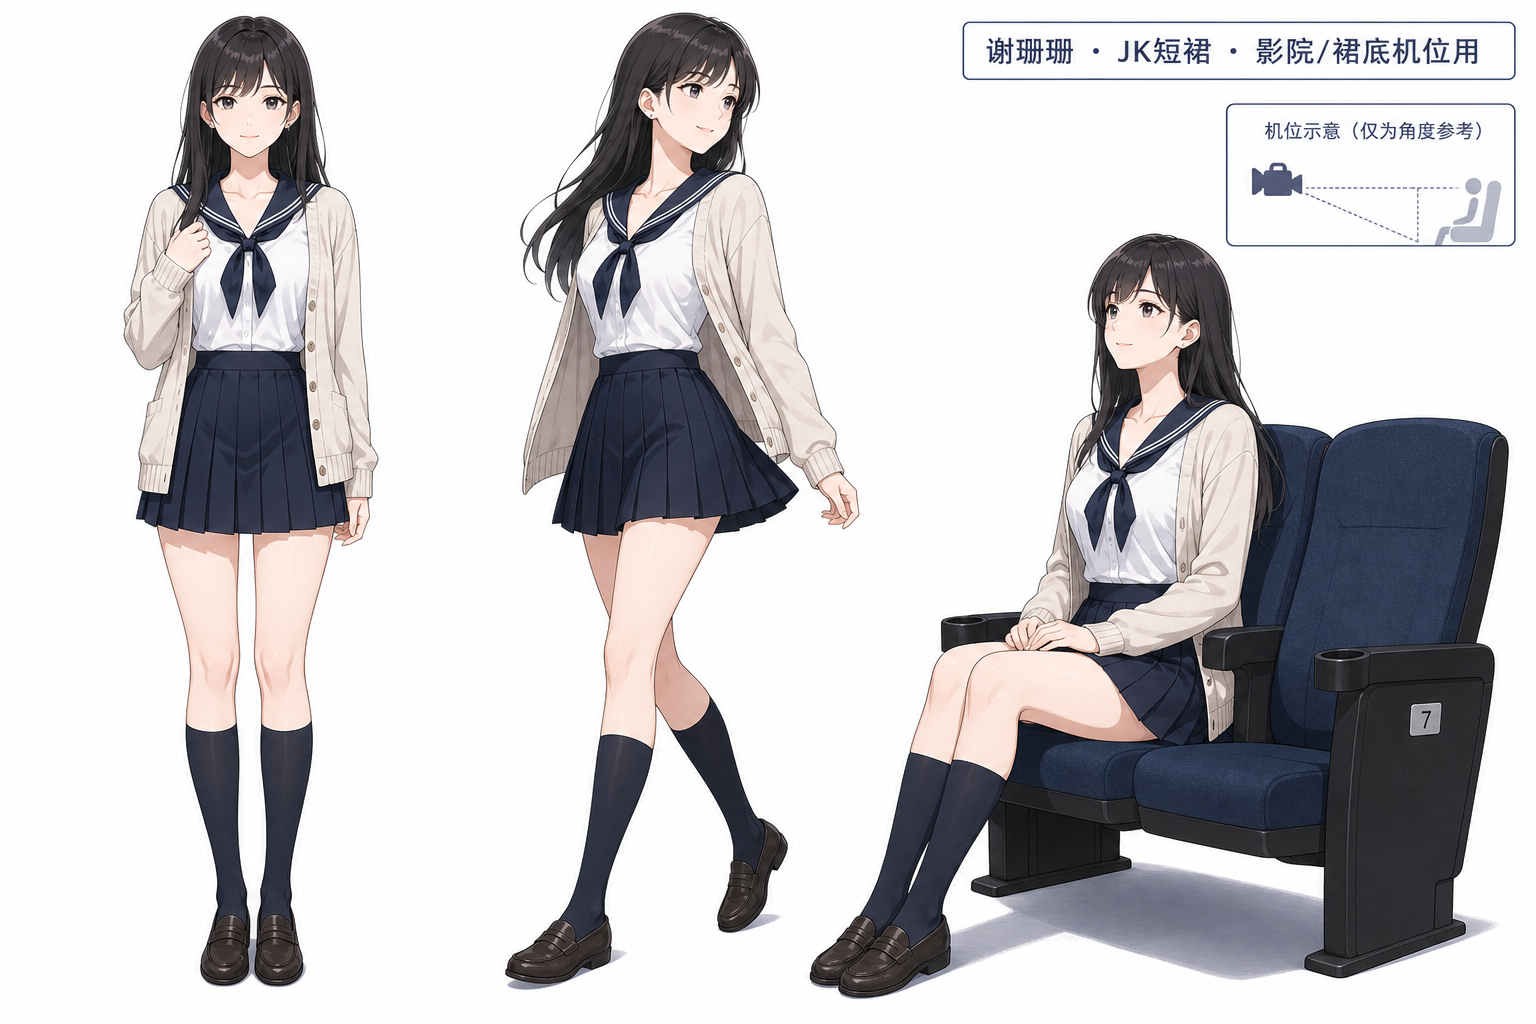
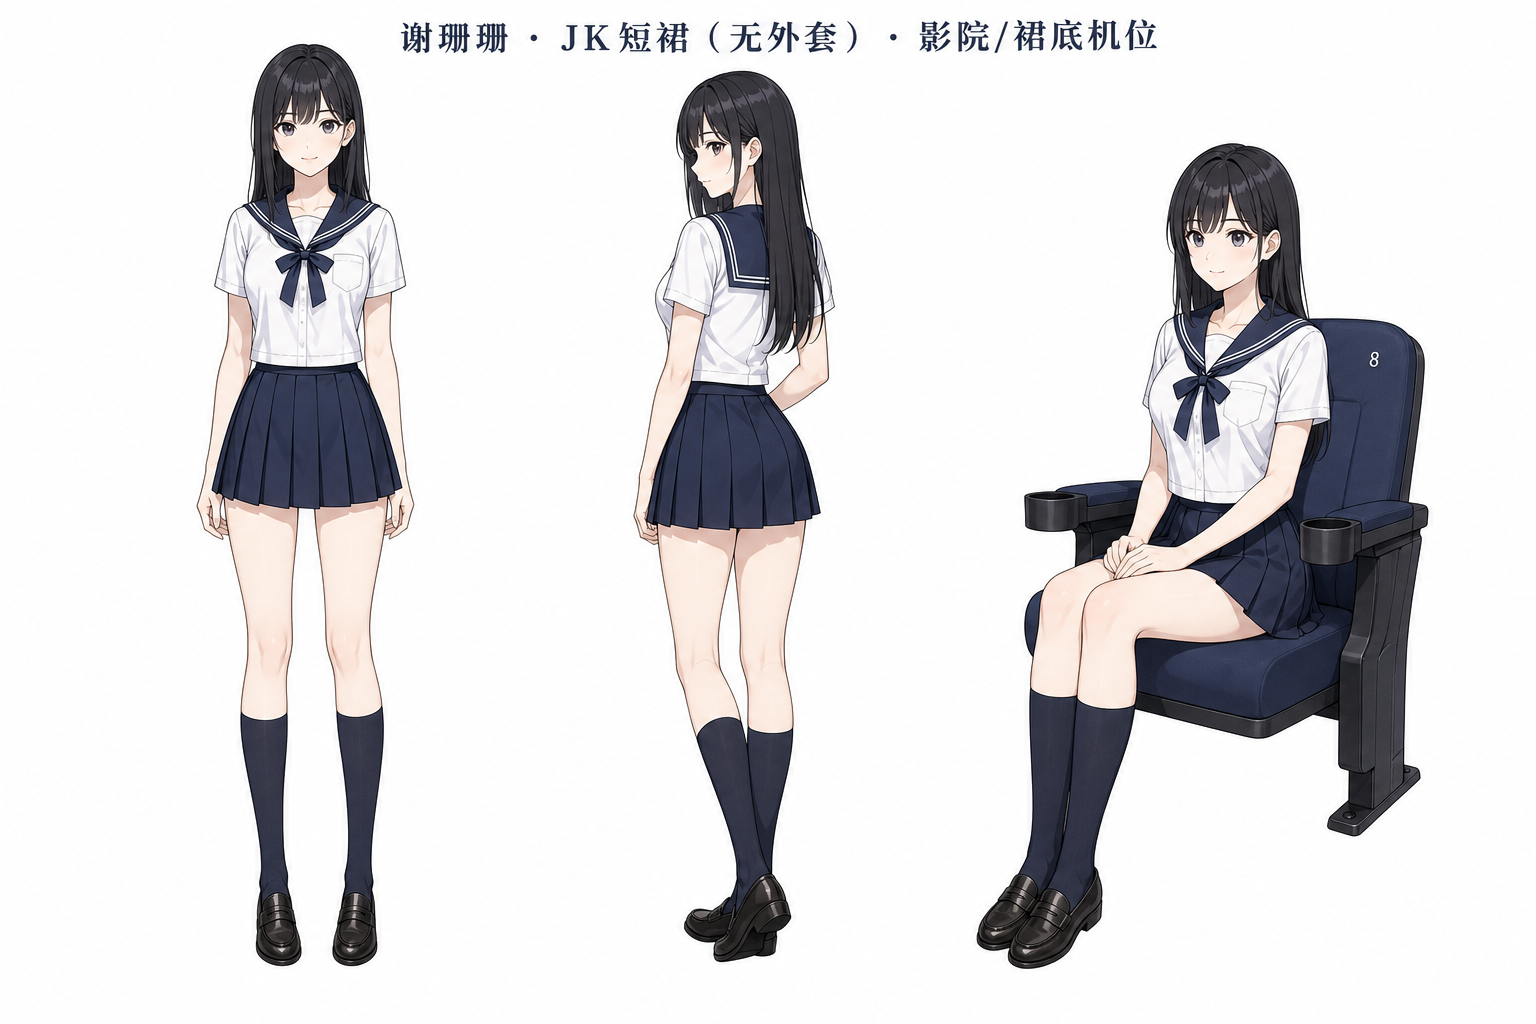
调整 JK 短裙设定：去掉外套，臀形改瘦
按反馈重绘服装图，并同步人物体态与服装说明。

diff --git a/anime-adaptation/01-女主人物设定-谢珊珊.md b/anime-adaptation/01-女主人物设定-谢珊珊.md
@@ -57,7 +57,8 @@
 
 ### 4.1 JK 短裙（影院 / 裙底机位）
 
-- **组成**：白底水手领上衣 + 深蓝领结/飘带 + 深蓝百褶短裙 + 深色中筒袜 + 乐福鞋；可加浅色开衫
+- **组成**：白底水手领上衣 + 深蓝领结/飘带 + 深蓝百褶短裙 + 深色中筒袜 + 乐福鞋；**不搭外套/开衫**
+- **体态**：腰细、臀形偏小不丰满，强调长腿直线而非曲线
 - **识别点**：百褶裙摆摆动、坐姿并膝、双手按住裙角
 - **分镜用途**
   - 裙底机位：只拍到裙摆内侧阴影切断 / 桌沿遮挡 / 过肩俯角，**不直出内衣全貌**
